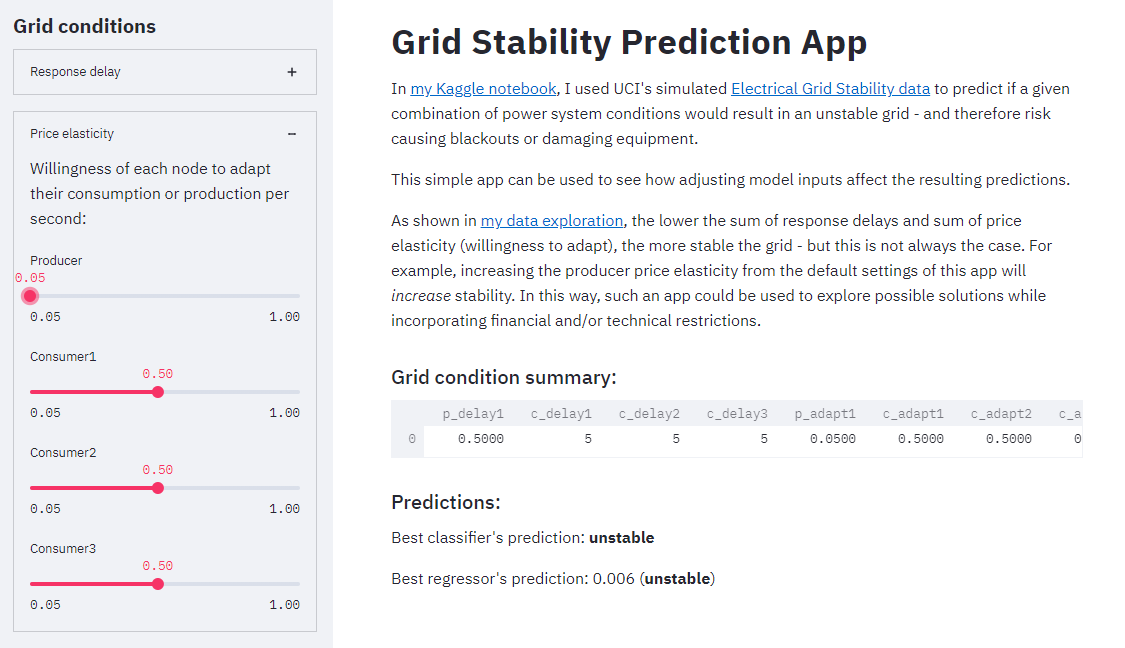
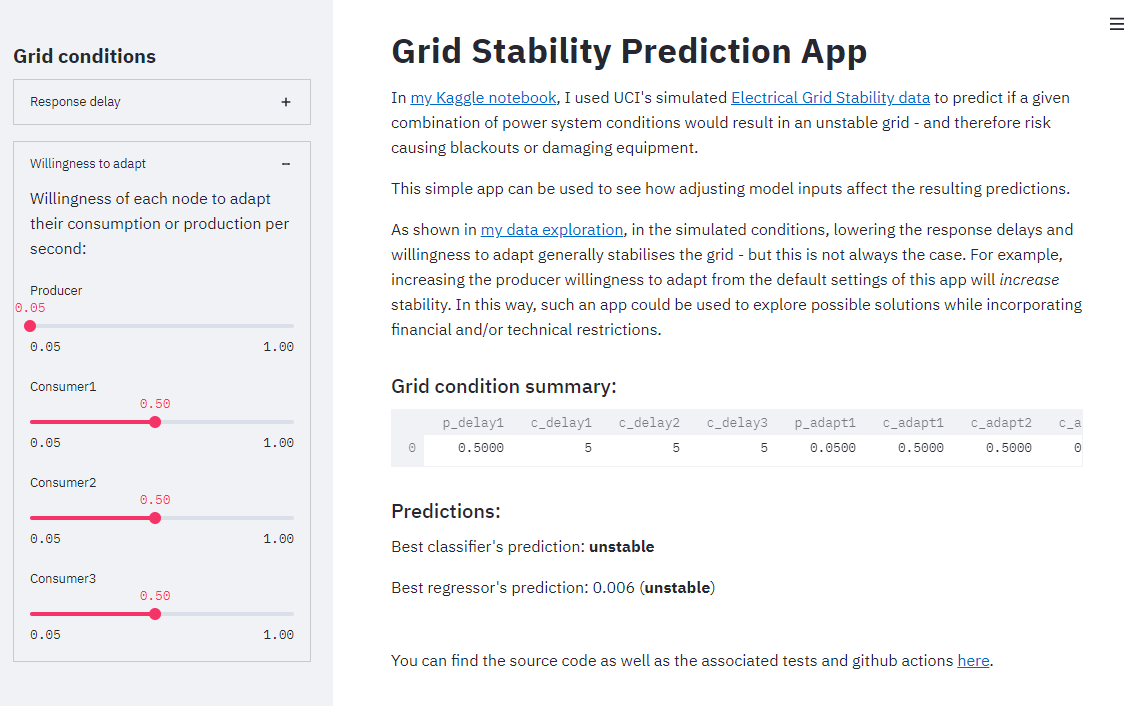
add pytest tests and github action

diff --git a/test_grid_stability.py b/test_grid_stability.py
@@ -1,0 +1,26 @@
+import pytest
+from grid_stability import add_input_set
+import pandas as pd
+import re
+
+
+class TestAddInputSet(object):
+    # note: basic unexpected type cases are already handled by Python and streamlit.
+    
+    expected_params = [("p_delay", 0.5, 10.0, 0.5, ["Producer"], 
+                        pd.DataFrame({"p_delay1": 0.5}, index=[0])),
+                      ("c_adapt", 0.05, 1.0, 0.5, ["Consumer1", "Consumer2", "Consumer3"], 
+                        pd.DataFrame({"c_adapt" + str(i): 0.5  for i in range(1, 4)}, index=[0]))]
+    @pytest.mark.parametrize("feature, min_value, max_value, value, node_names, expected", expected_params)
+    def test_expected_dates(self, feature, min_value, max_value, value, node_names, expected):
+        actual = add_input_set(feature, min_value, max_value, value, node_names)
+        pd.testing.assert_frame_equal(actual, expected)
+
+
+    expected_errors_params = [("p_delay", 0.5, 10.0, 0.5, [], "At least one string required in `node_names` list."),
+                              ("p_delay", 0.5, 10.0, 0.5, [""], "Names in `node_names` list can't be empty strings.")]
+    @pytest.mark.parametrize("feature, min_value, max_value, value, node_names, expected", expected_errors_params)        
+    def test_expected_errors_raised(self, feature, min_value, max_value, value, node_names, expected):
+        with pytest.raises(AssertionError) as error_msg:
+            add_input_set(feature, min_value, max_value, value, node_names)
+        assert error_msg.match(re.escape(expected))

diff --git a/grid_stability.py b/grid_stability.py
@@ -4,7 +4,7 @@ import pandas as pd
 import pickle
 
 
-# intro --------------------
+### intro ###
 """
 # Grid Stability Prediction App
 
@@ -23,7 +23,7 @@ financial and/or technical restrictions.
 """
 
 
-# side bar --------------------
+### side bar ###
 def add_input_set(
     feature: str,
     min_value: float,
@@ -31,6 +31,11 @@ def add_input_set(
     value: float,
     node_names: List[str],
 ):
+    assert len(node_names) > 0, "At least one string required in `node_names` list."
+    assert all(
+        [name != "" for name in node_names]
+    ), "Names in `node_names` list can't be empty strings."
+
     inputs = [
         st.slider(node_name, min_value, max_value, value) for node_name in node_names
     ]
@@ -63,7 +68,7 @@ with st.sidebar:
 input_df = p_delay_df.join(c_delay_df).join(p_adapt_df).join(c_adapt_df)
 
 
-# results --------------------
+### results ###
 st.subheader("Grid condition summary:")
 st.write(input_df)
 
@@ -83,6 +88,9 @@ st.markdown(
 
 
 # seems to only work when written separately
-"  \n"
-"  \n"
-"""You can find the source code [here](https://github.com/sowla/grid_stability_app)."""
+st.write("  \n")
+st.write("  \n")
+st.write(
+    """You can find the source code as well as the associated tests
+and github actions [here](https://github.com/sowla/grid_stability_app)."""
+)

diff --git a/README.md b/README.md
@@ -11,7 +11,7 @@ that can be used to see how adjusting model inputs affect the resulting predicti
 ![streamlit app screenshot](img/app.png)
 
 
-This repo contains the source code.
+This repo contains the source code as well as the associated tests and github actions.
 
 </br>
 
